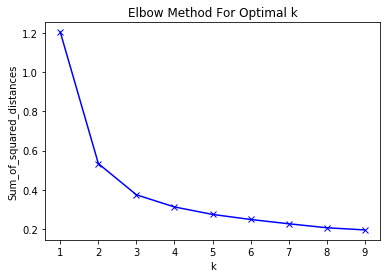
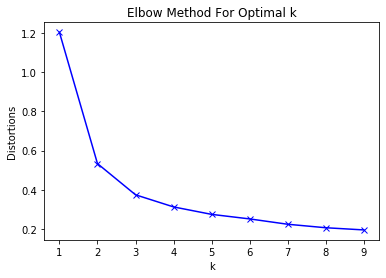
organized code

diff --git a/Solution.py b/Solution.py
@@ -12,6 +12,8 @@ from scipy.spatial.distance import cdist
 from sklearn.cluster import KMeans
 import numpy as np
 
+
+#To read data and return dataset columns as Pandas DataFrame
 def readData():
     df = pd.read_csv("ClusterPlot.csv")
     df.plot(kind='scatter',x='V1',y='V2',color='blue')
@@ -19,6 +21,7 @@ def readData():
     return df.drop(df.columns[0], axis=1)
 
 
+#To identify number of clusters
 def elbowMethod(data):    
     distortions = []
     K = range(1,10)
@@ -30,7 +33,7 @@ def elbowMethod(data):
     #Plotting the Elbow curve
     plt.plot(K, distortions, 'bx-')
     plt.xlabel('k')
-    plt.ylabel('Sum_of_squared_distances')
+    plt.ylabel('Distortions')
     plt.title('Elbow Method For Optimal k')
     plt.show()
 
@@ -44,13 +47,15 @@ def getColor(i):
     else:
         return 'yellow'
 
+#To classify points based on number of clusters
 def clustering(data):
+    print("Judging by the location of the 'bend' in the graph, a good choice for number of clusters is 3")
     number_of_clusters=3
     
-    kmeans = KMeans(n_clusters=number_of_clusters) #defining number of clusters
-    kmeans.fit(data)  #fit kmeans object to dataset
+    kmeans = KMeans(n_clusters=number_of_clusters) 
+    kmeans.fit(data)
     
-    #Identifying the clusters
+    #Identifying the centroids
     centroids = kmeans.cluster_centers_
     
     #positions hold values of either 0,1,2 for each point in graph. 0,1,2 corresponds to their respective centroid.
@@ -73,7 +78,6 @@ def clustering(data):
 if __name__== "__main__":
     data = readData()
     elbowMethod(data)
-    print("Judging by the location of the 'bend' in the graph, a good choice for number of clusters is 3")
     clustering(data)
 
 
